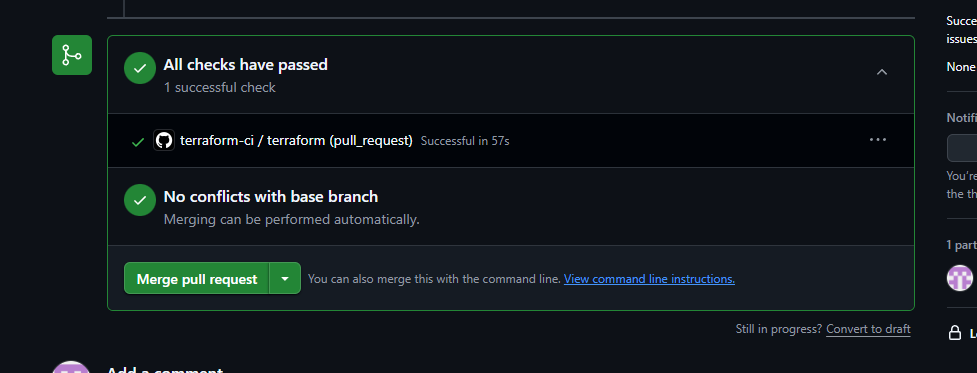
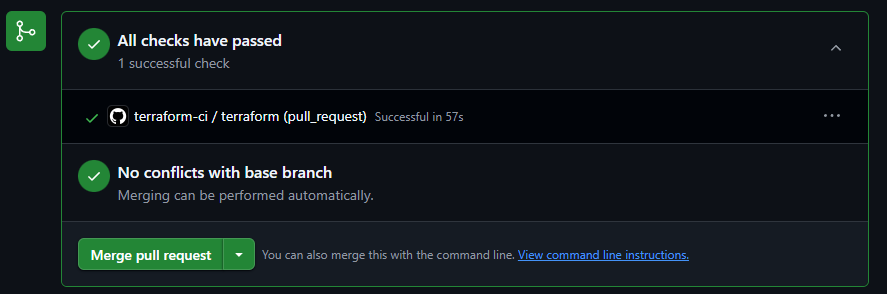
docs: add security gate workflow and enforcement evidence

diff --git a/README.md b/README.md
@@ -204,6 +204,8 @@ flowchart LR
 	ORC --> ART[Upload artifacts: security-summary.md, checkov-report.json, trivy-report.json]
 ```
 
+![Security Pipeline Workflow](docs/images/20-security-pipeline-workflow.png)
+
 ### Key Features
 
 - **Checkov integration**: policy-as-code scanning for Terraform with machine-readable JSON output.
@@ -216,7 +218,14 @@ flowchart LR
 - The Python gate parses the `checkov` and `trivy` JSON outputs produced during the workflow.
 - The pipeline fails the CI run if any Checkov policy check is reported as a hard failure.
 - The pipeline also fails if Trivy reports findings with severity `HIGH` or `CRITICAL`.
+  
+![Python Security Gate Failure](docs/images/18-python-security-gate-failure.png)
+
 - When checks pass, the workflow continues; all JSON reports and a concise `security-summary.md` are uploaded as run artifacts.
+
+### Security Gate Output
+
+![Trivy Severity Summary](docs/images/22-trivy-severity-summary.png)
 
 Why upload JSON reports as artifacts (not commit them):
 